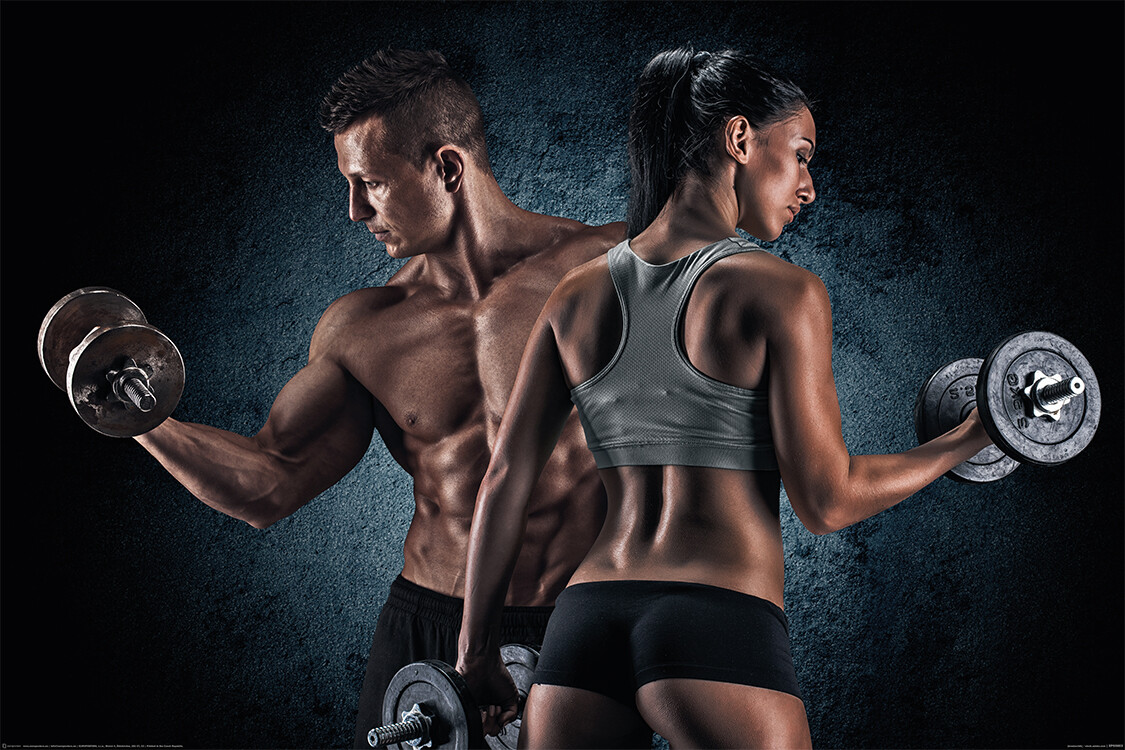
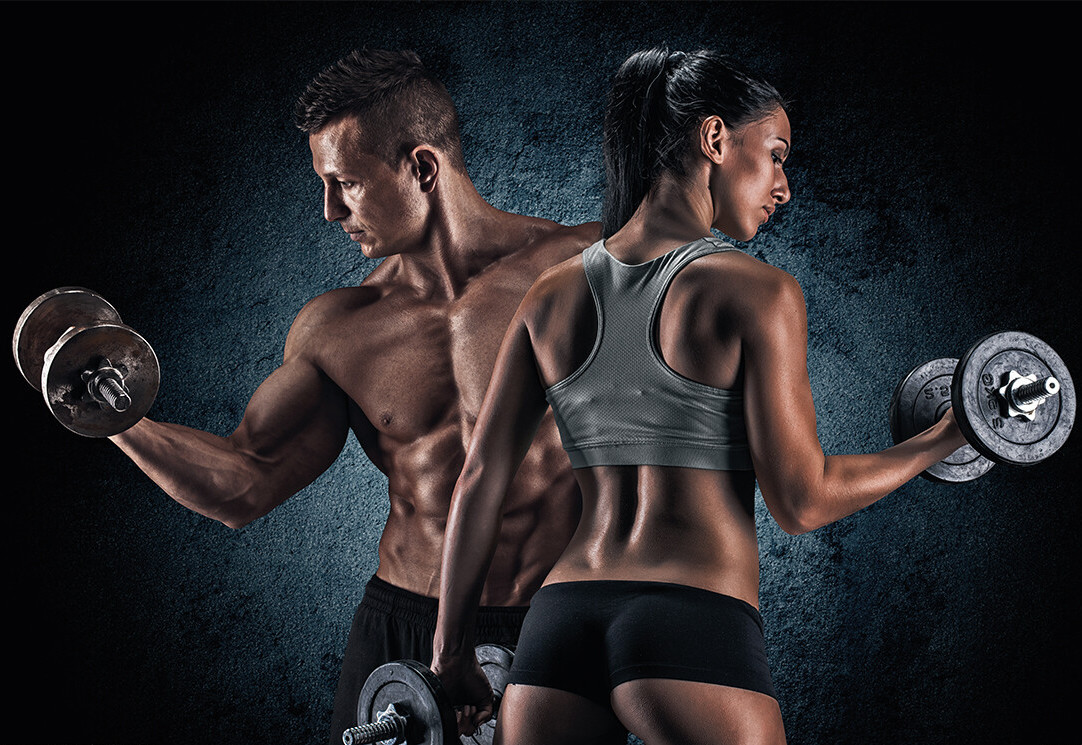
added black bg to the img div in merbeship detail, improved ui

diff --git a/memberships/templates/memberships/membership_detail.html b/memberships/templates/memberships/membership_detail.html
@@ -33,27 +33,32 @@
                 <div class="row">
 
                     <!-- membership detail image -->
-                    <div class="col-12 col-lg-6">
-                        <a href="{{ membership.image.url }}" target="_blank" class="mx-auto">  
-                            {% if membership.image %}
-                                <a href="{{ membership.image.url }}" target="_blank">
-                                    <img class="card-img-top img-fluid rounded" src="{{ membership.image.url }}" alt="{{ membership.name }}">
-                                </a>
-                                {% else %}
-                                <a href="">
-                                    <img class="card-img-top img-fluid" src="{{MEDIA_URL }}noimage.png" alt="{{ membership.name }}">
-                                </a>
-                            {% endif %}
-                        </a>                    
+                    <div class="col-12 col-md-5 col-lg-6">
+                        <div class="rounded div-img">
+                            <a href="{{ membership.image.url }}" target="_blank" class="mx-auto">  
+                                {% if membership.image %}
+                                    <a href="{{ membership.image.url }}" target="_blank">
+                                        <img class="card-img-top img-fluid rounded" src="{{ membership.image.url }}" alt="{{ membership.name }}">
+                                    </a>
+                                    {% else %}
+                                    <a href="">
+                                        <img class="card-img-top img-fluid" src="{{MEDIA_URL }}noimage.png" alt="{{ membership.name }}">
+                                    </a>
+                                {% endif %}
+                            </a>
+                        </div>              
                     </div>
 
                     <!-- membership details -->
-                    <div class="col-12 col-lg-6">
+                    <div class="col-12 col-md-7 col-lg-6">
                         <div class="text-dark p-2">
                             <h1 class="lg-font">{{ membership.name }}</h1>
+                            <p class="font-subtitle">{{ membership.name }} fitness plan</p>
                             <hr class="w-100 my-1">
-                            <p class="lg-font font-mb my-2" >€{{ membership.price }}/mo</p>
+                            <p class="my-2"><span class="lg-font font-mb">€{{ membership.price }}</span>/month</p>
                             <hr class="w-100 my-1">
+                            <p class="sm-font">{{ membership.description }}</p>
+                            <p class="sm-font">{{ membership.description }}</p>
                             <p class="sm-font">{{ membership.description }}</p>
                             <a href="{% url 'memberships' %}" class="btn btn-outline-dark">Back</a>
                         </div>

diff --git a/static/css/base.css b/static/css/base.css
@@ -12,6 +12,10 @@ body{
 
 /* navbar */
 
+.bag-icon{
+    color: white;
+} 
+
 /* main section */
 
 .main-section{
@@ -30,6 +34,8 @@ body{
 
 .logo-font{
     color: white;
+    transform: scale(1.05);
+    transition: 0.4s;
 }
 
 /* home */
@@ -66,6 +72,21 @@ transition: 0.4s;
     font-style: italic;
     font-weight: 600;
     font-size: 1.25rem;
+}
+
+.font-subtitle{
+    font-family: Biotif,"Noto Sans","Noto Sans JP","Noto Sans KR",Helvetica;
+    font-weight: 400;
+    font-size: 1.27rem;
+    line-height: 1.75rem;
+    color: #1a1a1a;
+    text-transform: none;
+    color: #707070;
+}
+
+.div-img{
+    background-color: black;
+    height: 100%;
 }
 
 

diff --git a/templates/base.html b/templates/base.html
@@ -80,7 +80,7 @@
 
                     <div class="nav-item cart">
                         <a class="nav-link" href="{% url 'view_bag' %}">
-                            <i class="fas fa-shopping-cart lg-font"></i>
+                            <i class="fas fa-shopping-cart bag-icon lg-font"></i>
                             
                             <span class="cart-icon-quantity"></span>
                             
